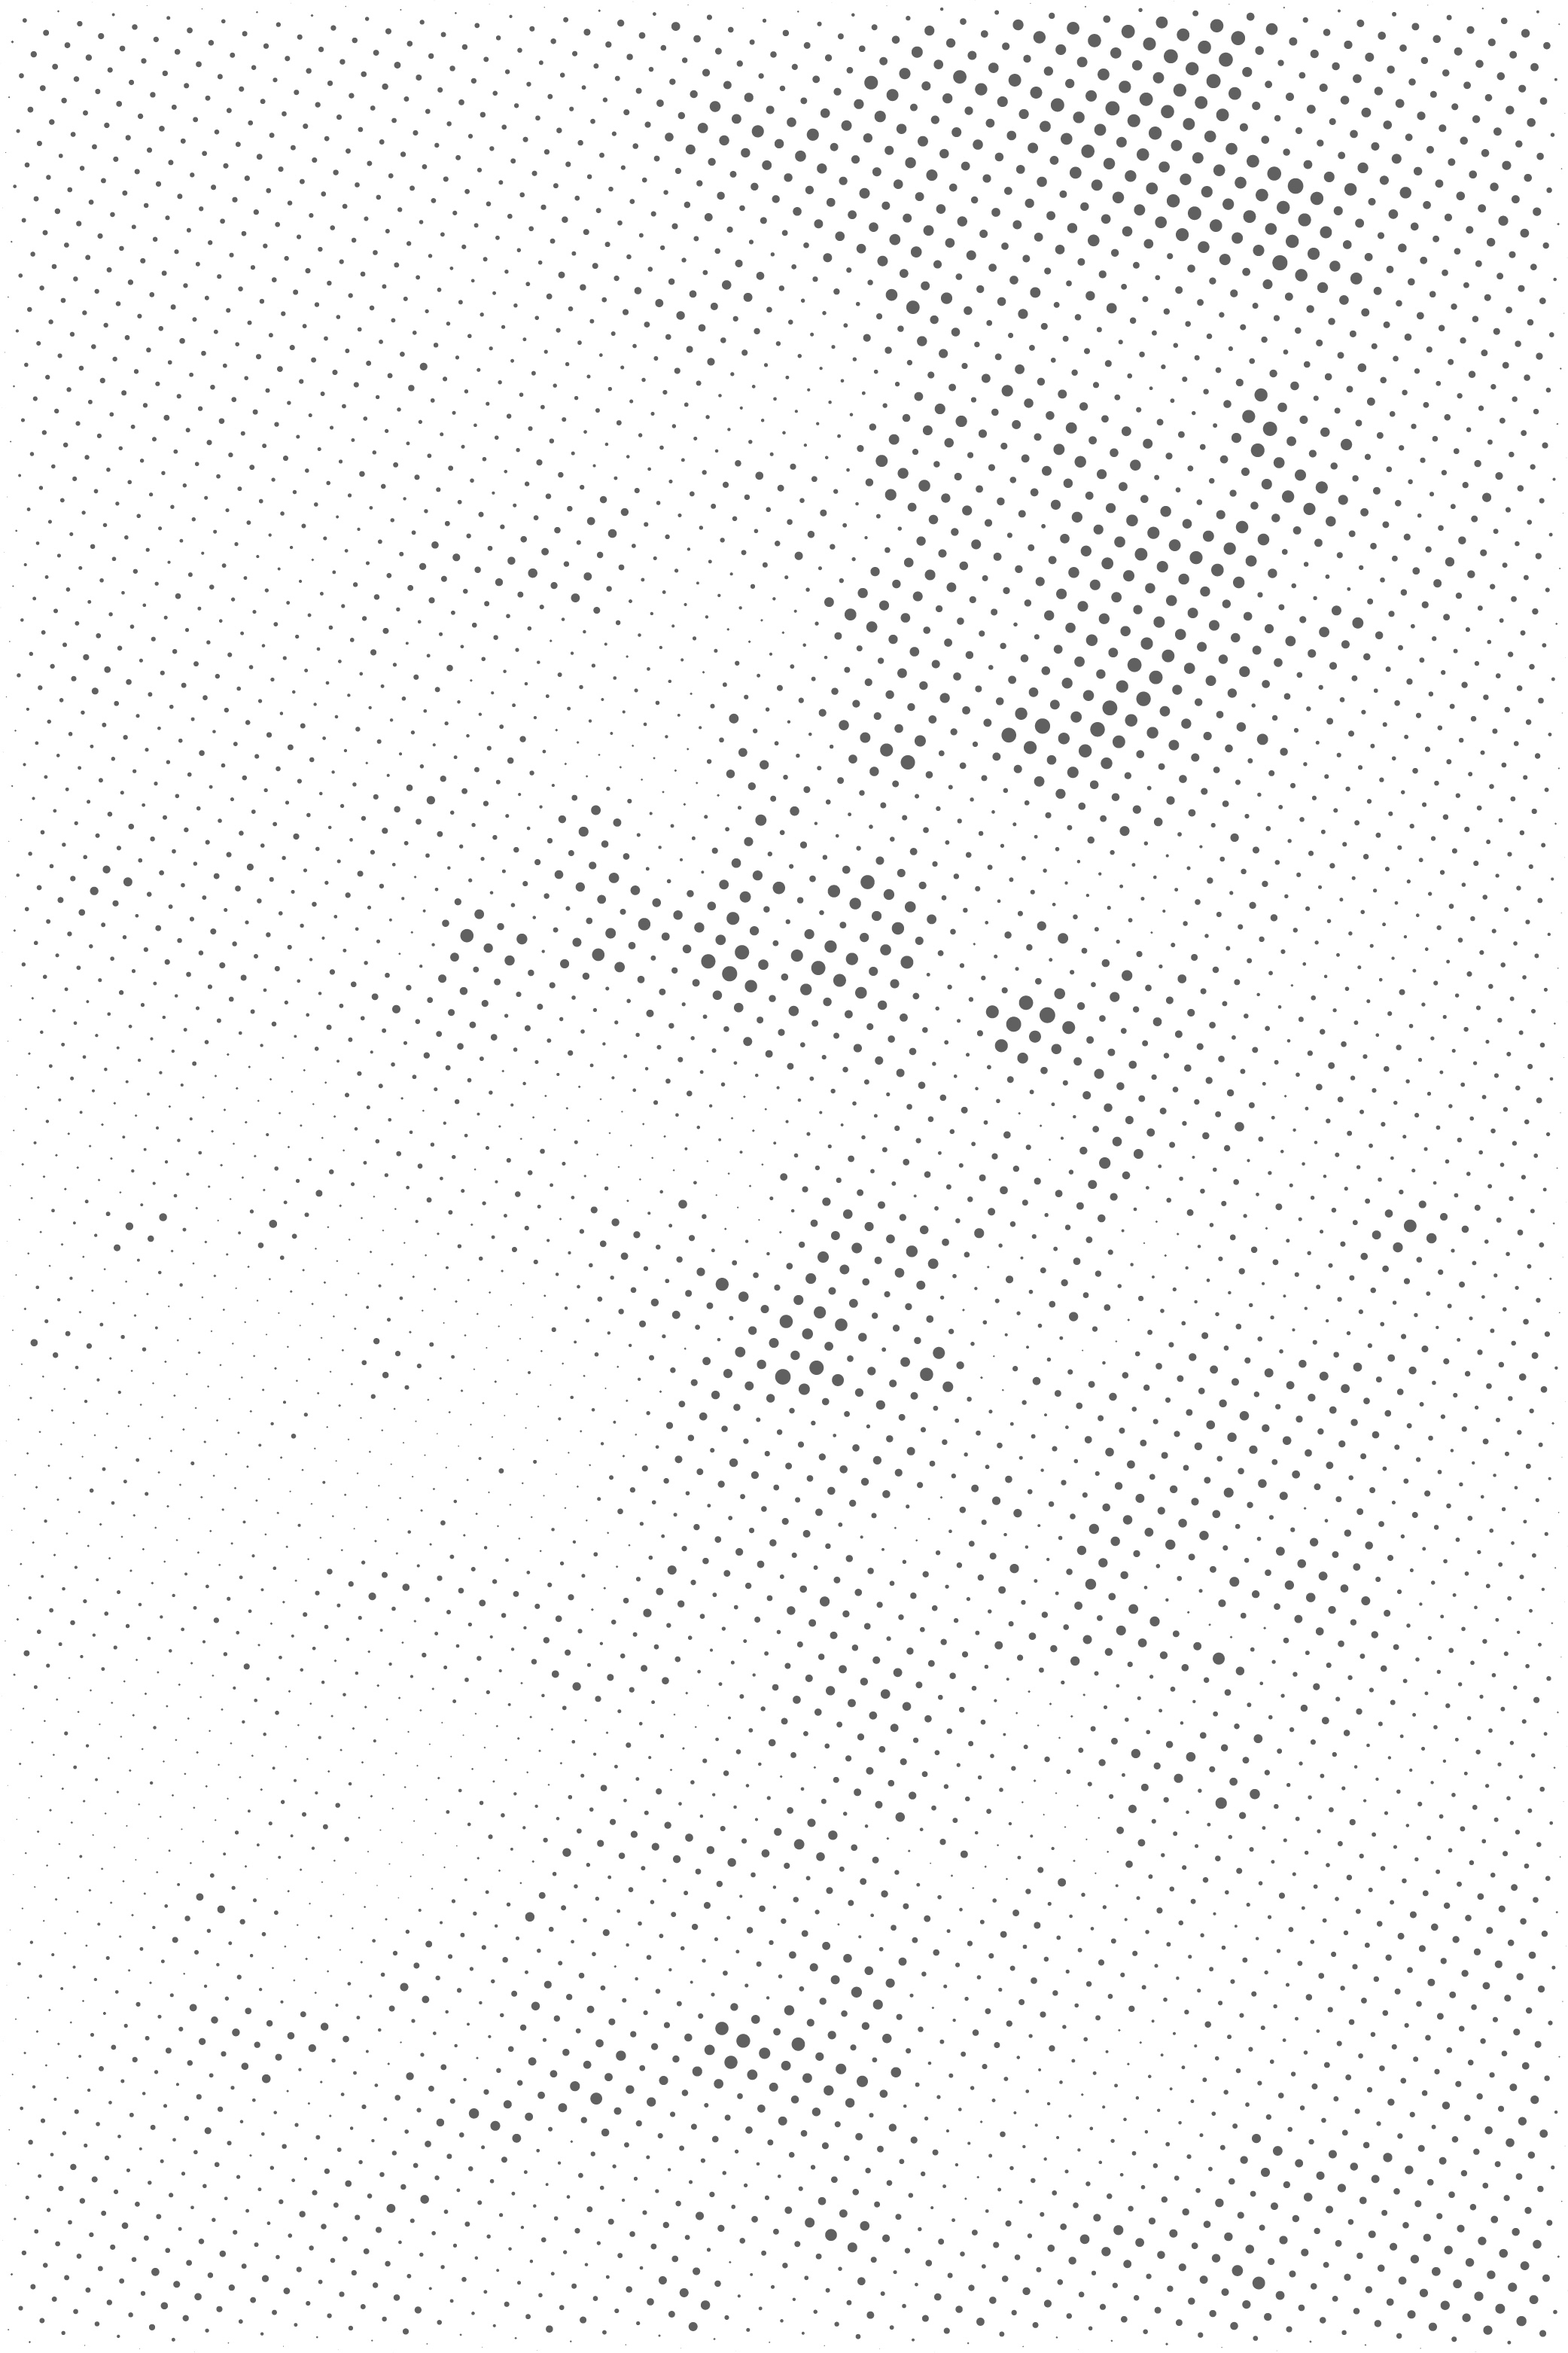
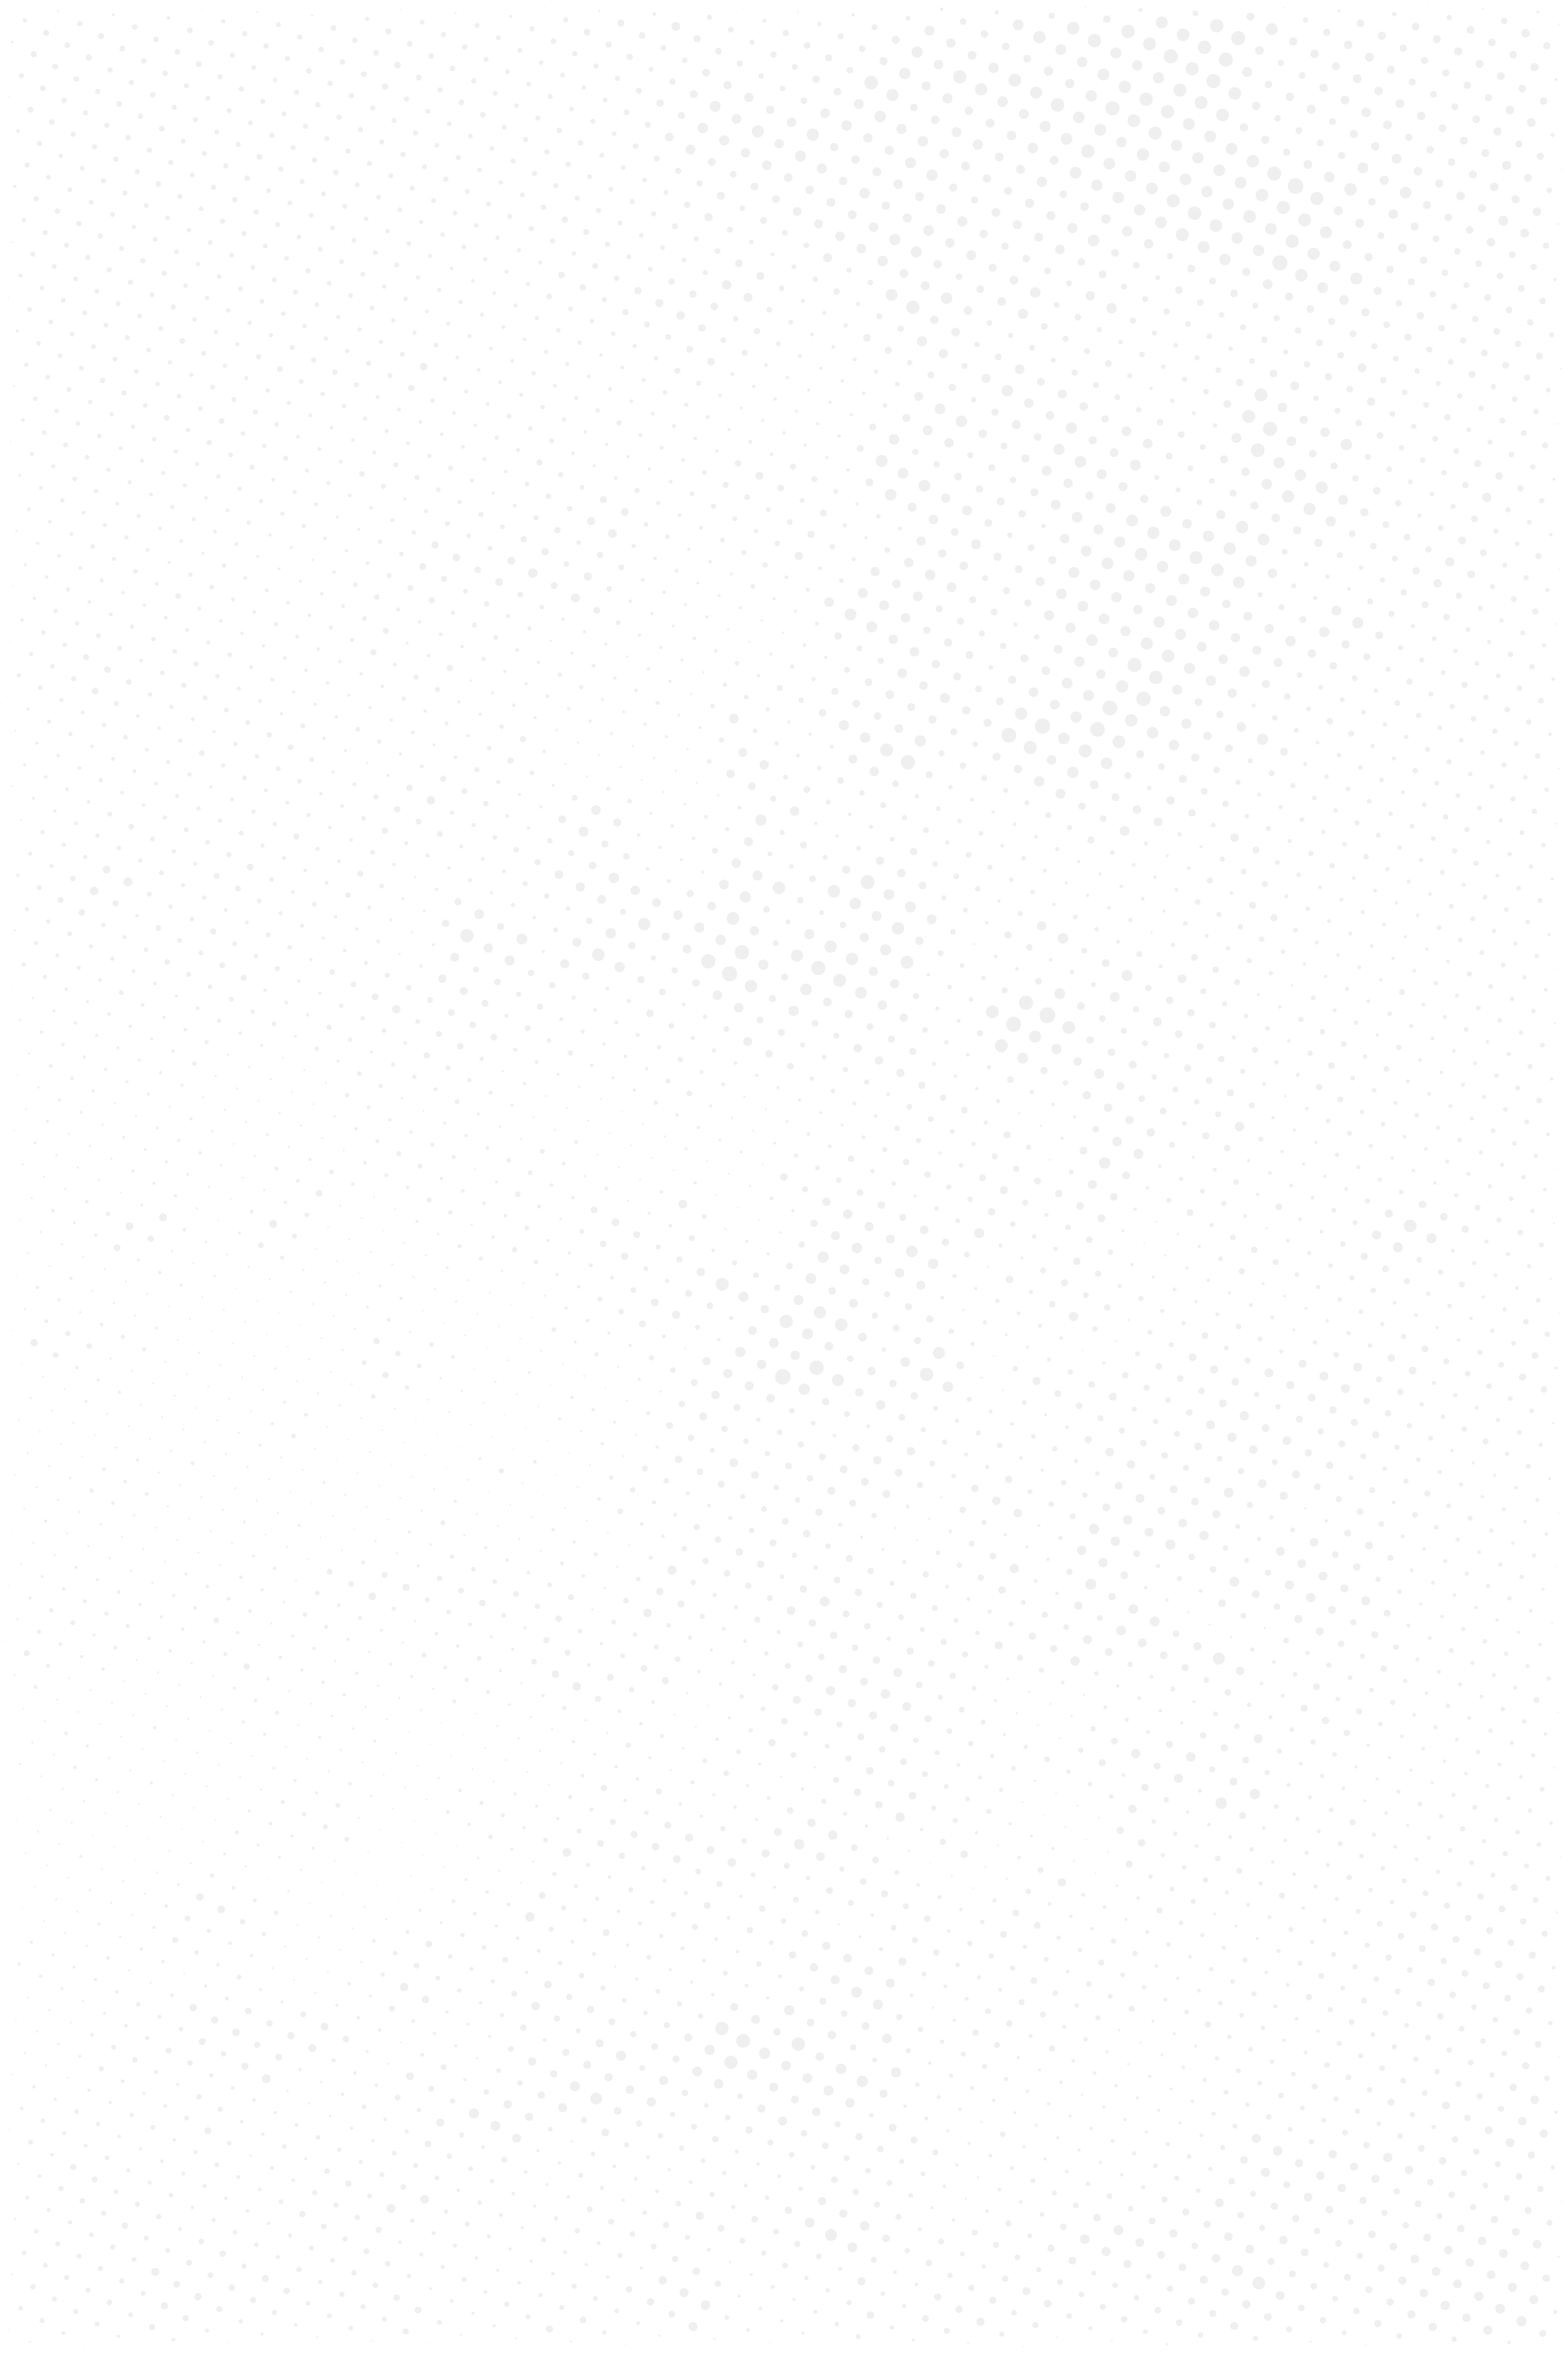
Avance
Página de contacto terminada

diff --git a/public/front/Sitio_CNT/contacto.html b/public/front/Sitio_CNT/contacto.html
@@ -1,180 +1,136 @@
 <!DOCTYPE html>
 <html lang="es">
 <head>
-  <meta charset="UTF-8" />
-  <meta name="viewport" content="width=device-width, initial-scale=1.0" />
+  <meta charset="UTF-8">
   <title>Contacto</title>
+
   <style>
+   
+@import url('https://fonts.googleapis.com/css2?family=Geologica:slnt,wght,CRSV,SHRP@-12..0,100..900,0..1,0..100&family=Raleway:ital,wght@0,100..900;1,100..900&display=swap');
+   
+
     body {
+      background-image: url('img/textura-fondo.jpg'); 
+      background-repeat: no-repeat; 
+      background-size: cover; 
+      background-attachment: fixed;  
+      font-family: 'Montserrat', sans-serif;
       margin: 0;
-      font-family: Arial, sans-serif;
-      background-image: url('FOTO-DE-FONDO.jpg'); /* Reemplaza por tu imagen */
-      background-size: cover;
-      background-position: center;
-      background-repeat: no-repeat;
     }
 
-    .overlay {
-      background: rgba(255, 255, 255, 0.9);
-      min-height: 100vh;
-      padding: 20px;
+    .contacto {
+      max-width: 1000px;
+      margin: 60px auto;
+      padding: 0 20px;
     }
 
-    h1 {
+    .contacto h1 {
       text-align: center;
       color: #00A8AB;
-      font-size: 32px;
-      margin-bottom: 20px;
+      margin-bottom: 40px;
+      font-size: 96px;
     }
 
-    .contact-list {
+    .contacto-grid {
       display: grid;
-      grid-template-columns: 1fr;
-      gap: 30px 60px;
-      max-width: 900px;
-      margin: 0 auto; /* CENTRADO REAL */
+      grid-template-columns: 1fr 1fr;
+      gap: 40px;
     }
 
-    .item {
-      border-bottom: 1px solid #ccc;
-      padding-bottom: 15px;
+    /* Columna izquierda */
+    .col.izquierda {
+      text-align: right;
     }
 
-    .role {
-      font-weight: bold;
-      color: #000;
-      font-size: 16px;
-    }
-
-    .name {
-      color: #00A8AB;
-      font-weight: bold;
-      font-size: 16px;
-    }
-
-    .ext, .email {
-      display: block;
+    .col.izquierda p {
+      margin-bottom: 16px;
       font-size: 14px;
-      color: #333;
+      line-height: 1.4;
     }
 
-    /* DIVIDER */
-    .divider {
-  
-      height: 3px;
-       border-bottom: 1px solid #ccc;
+    .col.izquierda strong {
+      font-weight: 600;
+    }
+
+    /* Columna derecha */
+    .col.derecha {
+      text-align: left;
+    }
+
+    .col.derecha p {
+      margin-bottom: 16px;
+      font-size: 14px;
+      line-height: 1.4;
+    }
+
+    .col.derecha span {
+      color: #00A8AB;
+      font-weight: 600;
+    }
+
+    /* Línea horizontal*/
+.divider {
+  border: none;
+  height: 2px;
+  background-color: #00A8AB;
+
+  margin: 20px 10% 40px 10%;
+}
+    /* Responsive */
    
-      margin: 0 auto 20px auto; /* CENTRADA */
+  @media (max-width: 768px) {
+      .contacto h1 {
+      text-align: center;
+      color: #00A8AB;
+      margin-bottom: 20px;
+      font-size: 40px;
     }
-
-    /* DESKTOP *//
-    @media (min-width: 900px) {
-      h1 {
-        font-size: 40px;
-      }
-
-      .contact-list {
-        grid-template-columns: 1fr 1fr; /* DOS COLUMNAS */
-      }
-    }
-
-      .contact-list {
-        max-width: 450px;
-      }
-
-      h1 {
-        font-size: 40px;
-      }
-    }
+  }
   </style>
 </head>
+
 <body>
-  <div class="overlay">
 
-    <h1>CONTACTO</h1>
+<section class="contacto">
+  <h1>CONTACTO</h1>
+<hr class="divider">
+  <div class="contacto-grid">
 
-    <div class="divider"></div>
+    <!-- Columna izquierda -->
+    <div class="col izquierda">
+      <p><strong>Dirección Artística</strong><br>ext. 5599</p>
+      <p><strong>Enlace de la Dirección Artística</strong><br>ext. 5590</p>
+      <p><strong>Dramaturgista</strong><br>ext. 5597</p>
+      <p><strong>Subdirección de Producción</strong><br>ext. 5595</p>
+      <p><strong>Enlace con los Estados y Giras</strong><br>ext. 5597</p>
+      <p><strong>Subdirección de Planeación y Programación</strong><br>ext. 5593</p>
+      <p><strong>Dirección Técnica</strong><br>ext. 5596</p>
+      <p><strong>Administración</strong><br>ext. 5594</p>
+      <p><strong>Gerente de Elenco</strong><br>ext. 5602</p>
+      <p><strong>Subdirección de Difusión y Comunicación</strong><br>ext. 5591</p>
+      <p><strong>Prensa</strong><br>ext. 5591</p>
+      <p><strong>Organización de Públicos</strong><br>ext. 5605</p>
+      <p><strong>Vigilancia</strong><br>ext. 5605</p>
+    </div>
 
-    <div class="contact-container">
-
-      <div class="contact-list two-columns">
-
-        <div class="item">
-          <span class="role">Dirección Artística</span><br>
-          <span class="name">Aurora Cano</span>
-          <span class="ext">ext. 5599</span>
-          <span class="email">acano@inba.gob.mx</span>
-        </div>
-
-        <div class="item">
-          <span class="role">Enlace de la Dirección Artística</span><br>
-          <span class="name">Blanca Huerta</span>
-          <span class="ext">ext. 5590</span>
-          <span class="email">mafafa16@hotmail.com</span>
-        </div>
-
-        <div class="item">
-          <span class="role">Dramaturgista</span><br>
-          <span class="name">Simón Franco</span>
-          <span class="ext">ext. 5597</span>
-          <span class="email">dramaturgismocnt@gmail.com</span>
-        </div>
-
-        <div class="item">
-          <span class="role">Subdirección de Producción</span><br>
-          <span class="name">Raúl Munguía</span>
-          <span class="ext">ext. 5595</span>
-          <span class="email">rmunguia@inba.gob.mx</span>
-        </div>
-
-        <div class="item">
-          <span class="role">Enlace con los Estados y Giras</span><br>
-          <span class="name">Luis Rivera</span>
-          <span class="ext">ext. 5597</span>
-          <span class="email">girascntteatro@gmail.com</span>
-        </div>
-
-        <div class="item">
-          <span class="role">Subdirección de Planeación y Programación</span><br>
-          <span class="name">Mónica Juárez</span>
-          <span class="ext">ext. 5593</span>
-          <span class="email">infocnteatro@inba.gob.mx</span>
-        </div>
-
-        <div class="item">
-          <span class="role">Dirección Técnica</span><br>
-          <span class="name">Alejandro Carrasco Bergara</span>
-          <span class="ext">ext. 5596</span>
-          <span class="email">alejandrocarrascobergara@gmail.com</span>
-        </div>
-
-        <div class="item">
-          <span class="role">Administración</span><br>
-          <span class="name">Osana Sandoval</span>
-          <span class="ext">ext. 5594</span>
-          <span class="email">osandoval@inba.gob.mx</span>
-        </div>
-
-        <div class="item">
-          <span class="role">Gerente de Elenco</span><br>
-          <span class="name">Laura Perea</span>
-          <span class="ext">ext. 5602</span>
-          <span class="email">gelenocnt@gmail.com</span>
-        </div>
-
-        <div class="item">
-          <span class="role">Subdirección de Difusión y Comunicación</span><br>
-          <span class="name">Rocío Ramonettti</span>
-          <span class="ext">ext. 5591</span>
-          <span class="email">cnteatro.difusion@inba.gob.mx</span>
-        </div>
-
-      </div>
+    <!-- Columna derecha -->
+    <div class="col derecha">
+      <p><span>Aurora Cano</span><br>acano@inba.gob.mx</p>
+      <p><span>Blanca Huerta</span><br>mafafa16@hotmail.com</p>
+      <p><span>Simón Franco</span><br>dramaturgismocnt@gmail.com</p>
+      <p><span>Raúl Munguía</span><br>rmunguia@inba.gob.mx</p>
+      <p><span>Luis Rivera</span><br>girasctnteatro@gmail.com</p>
+      <p><span>Mónica Juárez</span><br>infocnteatro@inba.gob.mx</p>
+      <p><span>Alejandro Carrasco Bergara</span><br>alejandrocarrascobergara@gmail.com</p>
+      <p><span>Osana Sandoval</span><br>osandoval@inba.gob.mx</p>
+      <p><span>Laura Perea</span><br>gelencocnt@gmail.com</p>
+      <p><span>Rocío Ramonettti</span><br>cnteatro.difusion@inba.gob.mx</p>
+      <p><span>Corina Rojas Caudillo</span><br>corinarojas@gmail.com</p>
+      <p><span>Fernanda Fierro</span><br>publicos.cnteatro@inba.gob.mx</p>
     </div>
 
   </div>
-    </div>
+</section>
 
-  </div>
 </body>
 </html>

diff --git a/public/css/estilo.css b/public/css/estilo.css
@@ -22,7 +22,7 @@
 }
 body {
   font-family: 'Montserrat', sans-serif;
-  color: #fff;
+
   margin: 0;
 }
 
@@ -42,7 +42,7 @@ body {
   }
     /* Barra de navegación */
     nav {
-      background: #fff;
+   
       display: flex;
       justify-content: space-between;
       align-items: center;
@@ -166,7 +166,7 @@ body {
   content: "";
   position: absolute;
   inset: 0;
-  background-color: rgba(255, 255, 255, 0.867);
+
   z-index: -1;
 }
 
